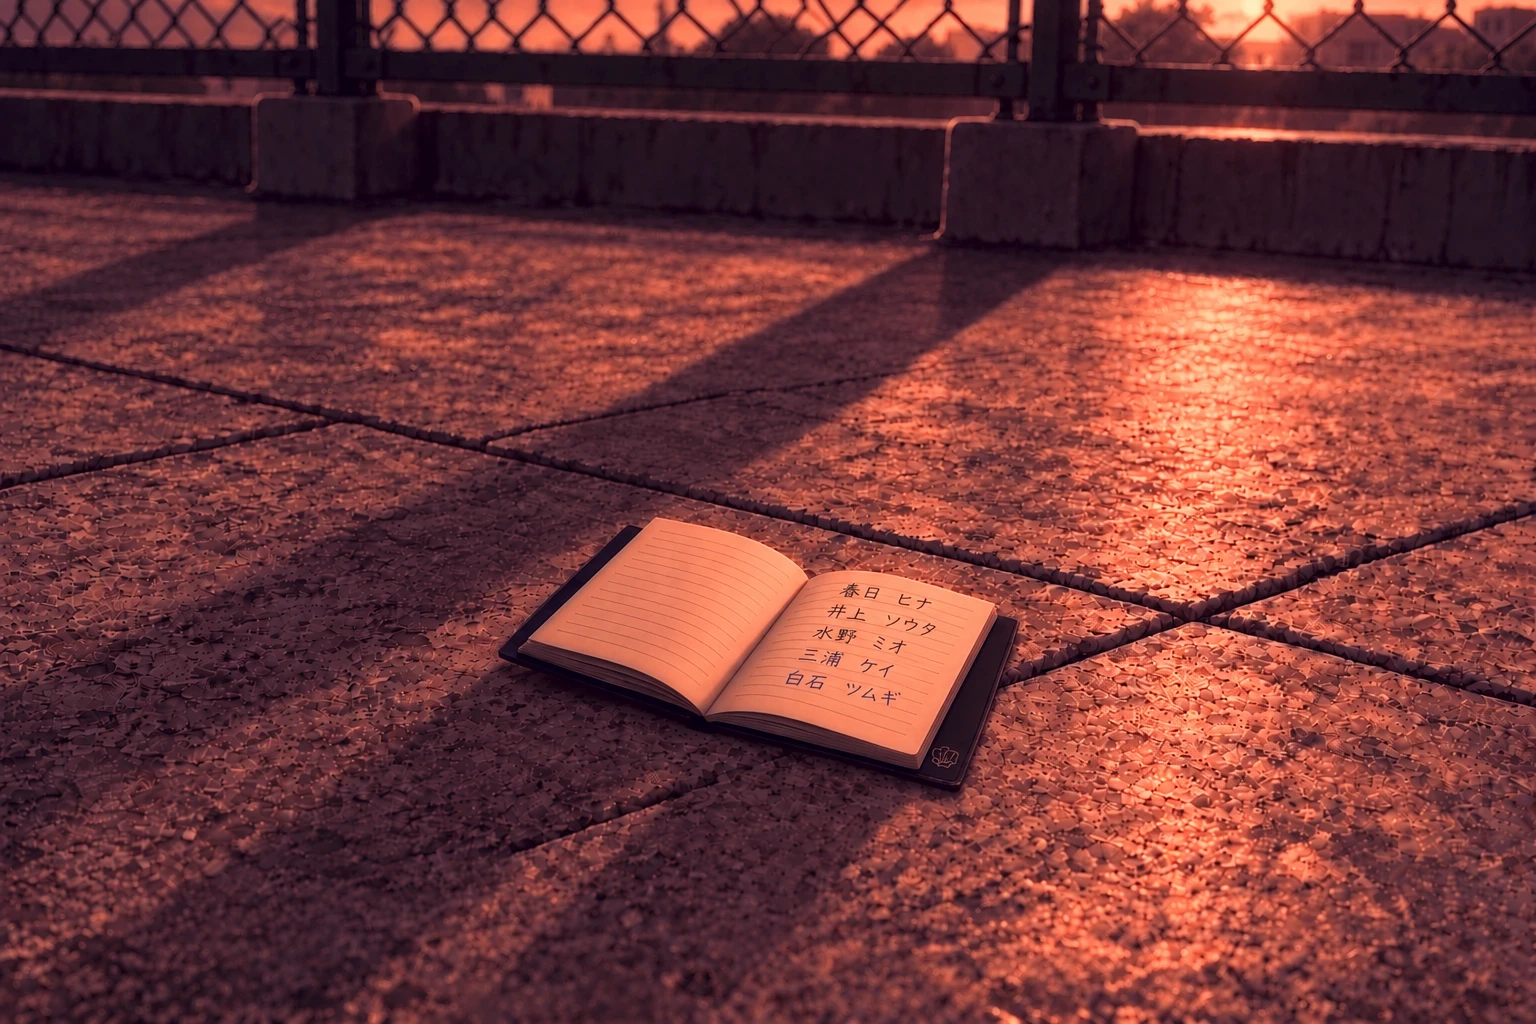
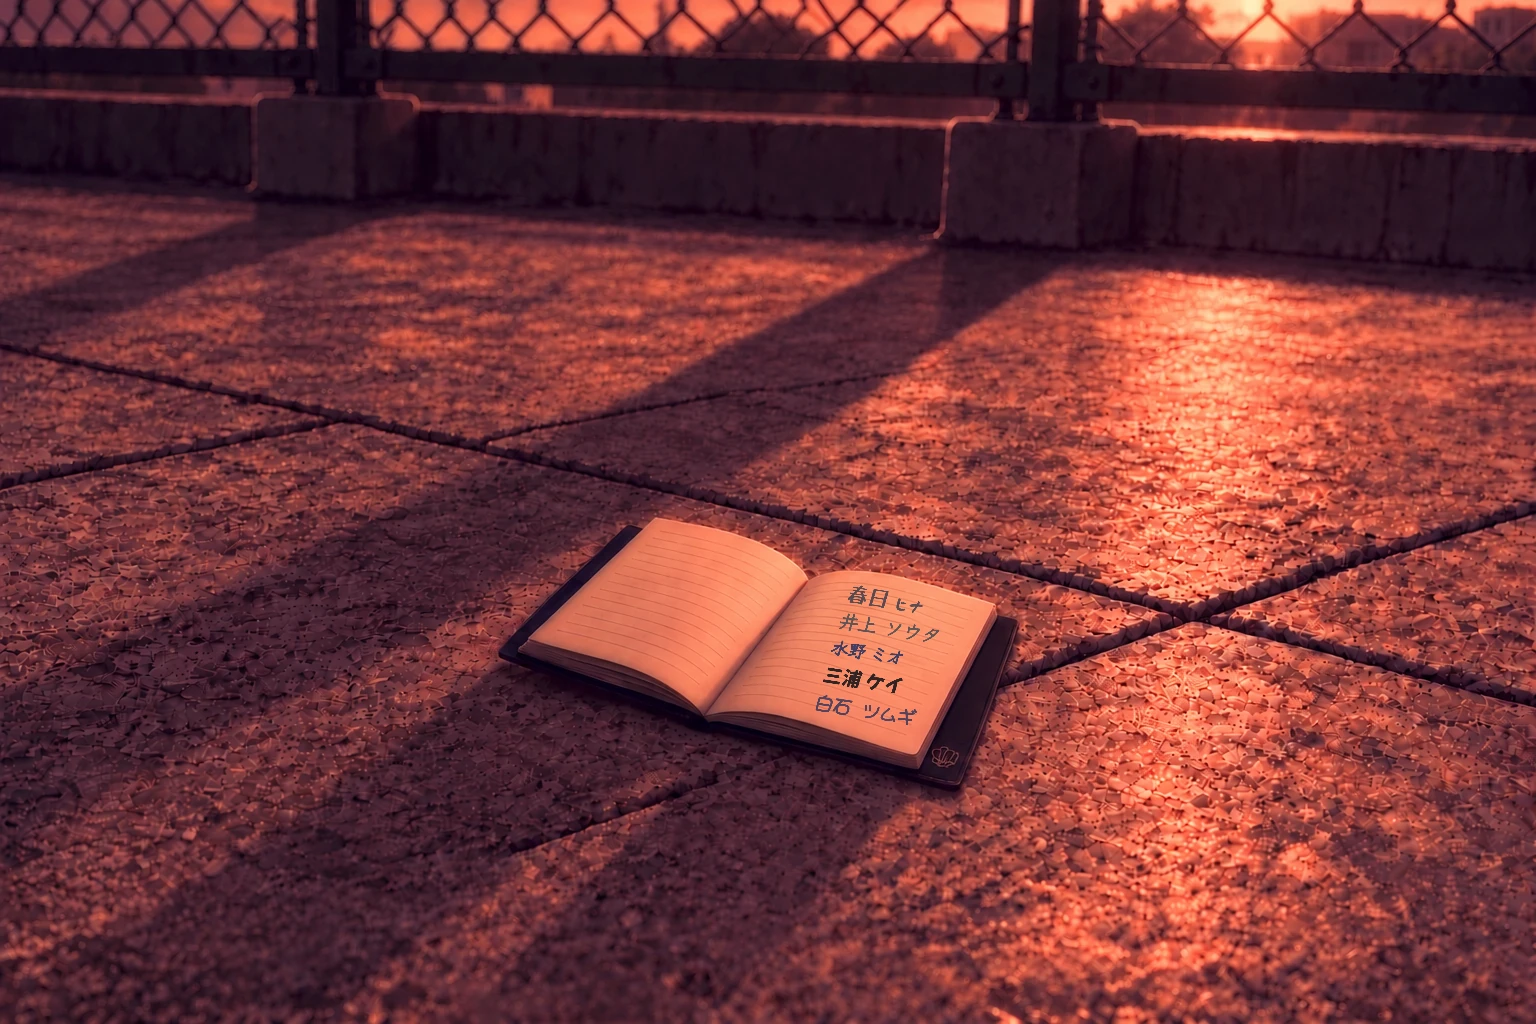
屋上：ひび割れ・波紋・ゴポをやめる／言葉の津波を雨の夜の屋上と土砂降りの音に／台詞の修正・追加／夕日の生徒手帳の名前を5人の字体に

diff --git a/index.html b/index.html
@@ -2102,6 +2102,29 @@
     } catch (e) {}
   }
   // バスケットボールが床に跳ねる音。n回（1回なら「一度だけ跳ねた」、何回かならドリブル）。遠くの体育館で鳴っている
+  let rainNodes = null;
+  function rainSE(on) {
+    if (replay) return;
+    try {
+      if (!on) { if (rainNodes) { const a = audio(), g = rainNodes.g, t = a.currentTime; g.gain.cancelScheduledValues(t); g.gain.setValueAtTime(g.gain.value, t); g.gain.linearRampToValueAtTime(0.0001, t + 2.2); const r = rainNodes; rainNodes = null; setTimeout(() => { try { r.s1.stop(); r.s2.stop(); r.lfo.stop(); } catch (e) {} }, 2500); } return; }
+      if (rainNodes || !P.sound) return;
+      const a = audio(), dst = out(), t = a.currentTime;
+      const g = a.createGain(); g.gain.setValueAtTime(0.0001, t); g.gain.linearRampToValueAtTime(0.55 * seMul(), t + 1.8); g.connect(dst);
+      // 高い「ザー」（屋根と床をたたく雨）
+      const s1 = a.createBufferSource(), f1 = a.createBiquadFilter(), g1 = a.createGain();
+      s1.buffer = getNoise(); s1.loop = true; f1.type = 'bandpass'; f1.frequency.value = 2600; f1.Q.value = 0.5; g1.gain.value = 0.5;
+      s1.connect(f1).connect(g1).connect(g);
+      // 低い「ゴー」（遠くの雨音と風）
+      const s2 = a.createBufferSource(), f2 = a.createBiquadFilter(), g2 = a.createGain();
+      s2.buffer = getNoise(); s2.loop = true; f2.type = 'lowpass'; f2.frequency.value = 420; g2.gain.value = 0.7;
+      s2.connect(f2).connect(g2).connect(g);
+      // 強弱のうねり（ゆっくり）
+      const lfo = a.createOscillator(), lg = a.createGain(); lfo.type = 'sine'; lfo.frequency.value = 0.13; lg.gain.value = 0.18;
+      lfo.connect(lg).connect(g1.gain); lfo.start(t);
+      s1.start(t); s2.start(t + 0.01);
+      rainNodes = { g, s1, s2, lfo };
+    } catch (e) {}
+  }
   function bounce(n = 1) {
     if (!P.sound || replay) return;
     try {
@@ -2473,7 +2496,6 @@
     last.classList.add('gone'); await sleep(1400);
     // 黒く底のない水に、沈んでいく音
     box.classList.add('sink');
-    const g = document.createElement('p'); g.className = 'rw gopo'; g.textContent = 'ゴポ……　　ゴポ……'; box.appendChild(g);
     await sleep(3200);
     box.classList.add('out'); await sleep(900); fxEnd(box);
   }
@@ -2516,7 +2538,6 @@
     ['#btnHint', '#btnWait', '#btnSave'].forEach(q => { $(q).disabled = true; });
     bgm(null);
     await roofVoid(['チャイムが鳴っている。']);
-    await crack();
     await endScene('rooftop');
     await say(['……風が、強い。', '気がつくと、フェンスの前に立っていた。', '夕日が、山の稜線にかかっている。', '（……ここは）',
                '足もとで、紙が風にあおられていた。', () => showCut('protag_notebook_dusk'), '生徒手帳だった。開いたまま、落ちている。']);
@@ -2531,7 +2552,7 @@
     await say(['手帳を拾った。', '開いていたのは、名前のページだった。', '春日ヒナ。井上ソウタ。水野ミオ。三浦ケイ。白石ツムギ。', '一行ずつ、違う字だった。',
                'さらさらと流れる字。一画ずつ、ていねいな字。小さくて、ていねいな字。大きくて、まっすぐな字。丸くて、やわらかい字。',
                '（……あの放課後は、本当にあった）', 'その下に、6行目があった。', '何も書かれていない。', '（ここには、誰の名前が入るはずだったんだろう）']);
-    $('#scene').classList.add('roof-dark');
+    await endScene('rooftop_rain'); rainSE(true);
     await wordRain();
     await say(['（……人間じゃないなら、何なんだよ）', '（……そうかもしれない）']);
     await lateWords([['苦しいのは、あなただけじゃないよ', 'sei'], ['いつもヘラヘラしてるのに', 'neg'], ['簡単に泣かない方がいいよ', 'sei'], ['一時の感情に、流されないようにね', 'sei'],
@@ -2547,18 +2568,18 @@
       await say(['手帳を、閉じかけた。', '……指が、6行目のところで止まった。', '（……まだ、白いままだ）', '白い行から、目をそらした。……見ていると、足もとが崩れる気がした。']);
     }
     // もう一人の自分（心の声を形にしたもの。そこに本当にいるわけではない）
-    $('#scene').classList.remove('roof-dark'); $('#scene').classList.add('roof-wind');
+    rainSE(false); await endScene('rooftop'); $('#scene').classList.add('roof-wind');
     const O = 'もう一人の自分';
     await say(['顔を上げると、フェンスの向こうの縁に、誰かが立っている気がした。', '自分と、同じ顔をしていた。',
                [O, '……五人は救えたのに。自分のことは、救えないんだね'], [O, '名前も、書けないくせに'], [O, 'いつまで経っても、変わらないね'],
-               [O, 'この社会で生きていける未来なんて、全く見えない。……そうでしょ']]);
+               [O, 'この世で生きていける未来なんて、全く見えない。……そうでしょ']]);
     const t = await choose(['「……つらかったんだね。ずっと」', '「……普通の人に、ならなきゃ」', '「大丈夫。まだ、これからだよ」', '「……生きてる価値なんて、ないよね」']);
     if (t === 3) return roofBad8('self');
     await say([[[O, '……今さら？'], [O, 'そんな言葉、誰も言ってくれなかったのに'], [O, '自分で自分に言ったって、届かないよ']],
                [[O, '……それ、言われてきた言葉だよね'], [O, '普通になれないから、ここにいるんじゃないの']],
                [[O, '……これから？'], [O, '今までずっと地獄だったのに、それを、まだ何十年も続けろっていうの'], [O, 'それは、自分に向けられた言葉じゃない。……綺麗事だよ']]][t]);
     await say(['もう一人の自分が、近づいてくる気がした。胸ぐらをつかむような勢いで。',
-               [O, '……あの時の言葉は、嘘だったの？'], [O, 'あの子たちにかけた言葉。……嘘だったの？　何とか言ってよ'],
+               [O, '……どうして自分には言えないの？　じゃあ、あの子たちにかけた言葉は嘘だったの！？'], [O, '……なんとか言えよ！！'],
                '泣き叫ぶみたいな声だった。すがるみたいな声だった。', '何も、言えなかった。うつむいたまま。',
                '（……迷惑かけて、ごめんなさい）', '（力になれなくて、ごめんなさい）', '（嫌な思いさせて、ごめんなさい）', '（生まれてきて、ごめんなさい）', '（生きてて、ごめん――）']);
     // 5人が来る（思い返しと現実が重なる）
@@ -2569,7 +2590,7 @@
                ...(kind === 'split' ? ['ミオは扉のそばに、ツムギはフェンス寄りに立っていた。二人は、一度も目を合わせなかった。'] : []),
                '誰も、近づいてこなかった。', '扉のところで、止まったまま。']);
     if (await choose(['「……来ないで」', '（……何も、言えない）']) === 0)
-      await say(['「……もう、誰も近寄らないで」', '「……近くにいると、不幸になるから」', '誰も、帰らなかった。扉のところで、止まったまま。',
+      await say(['「……もう、誰も近寄らないで」', '「あなた達には関係ない。……ほっといて」', '誰も、帰らなかった。扉のところで、止まったまま。',
                  ['ソウタ', '……知らねえよ、そんなの']]);
     else await say(['言葉が、出てこなかった。']);
     await say([['ソウタ', '放課後、ずっと隣にいたのは、お前だろ'],
@@ -2582,17 +2603,15 @@
     if (await choose(['「……うん」', '「……ごめん。今は」']) === 0) await say(['小さくうなずくと、ツムギが、そっと手をつないだ。']);
     else await say([['ツムギ', '……うん'], 'ツムギは手を引っこめて、そのまま、隣に立った。']);
     await say(['もう一人の自分は、まだそこにいる気がした。', 'うつむいたまま。', [O, '……それでも、そっちへ行くの？'], [O, 'また、生かされるの？'],
-               [O, '……幸せになったら、今までの自分は、何だったの？'], [O, 'ずっとこうだった。……こうでいるほうが、知ってる場所だよ'],
+               [O, '……幸せになったら、今までの自分は、何だったの？'], [O, 'ずっとこうだった。……こうでいるほうが、知ってる場所だよ'], [O, 'あなたは幸せにはなれない。仮に幸せを感じられたとしても、長くは続かない。……どうせあの子たちも、いずれ離れていくんだから'], [O, '期待しなければ痛みも感じずに済む。そうでしょう？'],
                '（……生かされるんじゃない）', '（知ってる場所から、出ていくんだ）']);
     if (await choose(['（……書きたい。自分の名前を）', '（……もう、閉じよう）']) === 1) return roofBad8('close');
     // TRUE
     await say(['うつむいているもう一人の自分に、向き直った。', '「……待たせて、ごめん」', '「あなたは、自分が助ける。……必ず」']);
-    roofTint(null); await ripple();
+    roofTint(null);
     await say(['ペンを持つ手が、少し震えた。', '一画目が、重かった。……知らない場所へ、足を踏み出すみたいに。', '6行目に、名前を書いた。', '（……一歩ずつ、進んでいこう）',
                '顔を上げると、フェンスの向こうには、もう誰もいなかった。', '代わりに、手のひらが、あたたかい気がした。', '誰かと手をつないでいるみたいに。']);
-    roofTint('tint-pale');
-    await say(['（……久しぶり。あなたに会いたかった）', '扉のほうを見た。', '鍵が、挿さったままだった。', '（……扉、閉めてなかったんだ）']);
-    roofTint(null);
+    await say(['扉のほうを見た。', '鍵が、挿さったままだった。', '（……扉、閉めてなかったんだ）']);
     bgm('unravelTrue', 2);
     await roofVoid(['ケイが呼んだ先生が来て、そのあとのことは、あまり覚えていない。', '家に帰ったのは、ずいぶん遅くだった。']);
     $('#clock').textContent = '';   // 翌朝からは時刻を出さない
@@ -2642,7 +2661,7 @@
     return roofEnd('BAD8', 'こわれた心');
   }
   function roofEnd(tag, title) {
-    roofTint(null); $('#scene').classList.remove('roof-dark', 'roof-wind'); $('#bells').style.visibility = '';
+    rainSE(false); roofTint(null); $('#scene').classList.remove('roof-dark', 'roof-wind'); $('#bells').style.visibility = '';
     P.endings[tag] = true;
     const got = achGain(tag);
     finishRun(true);
